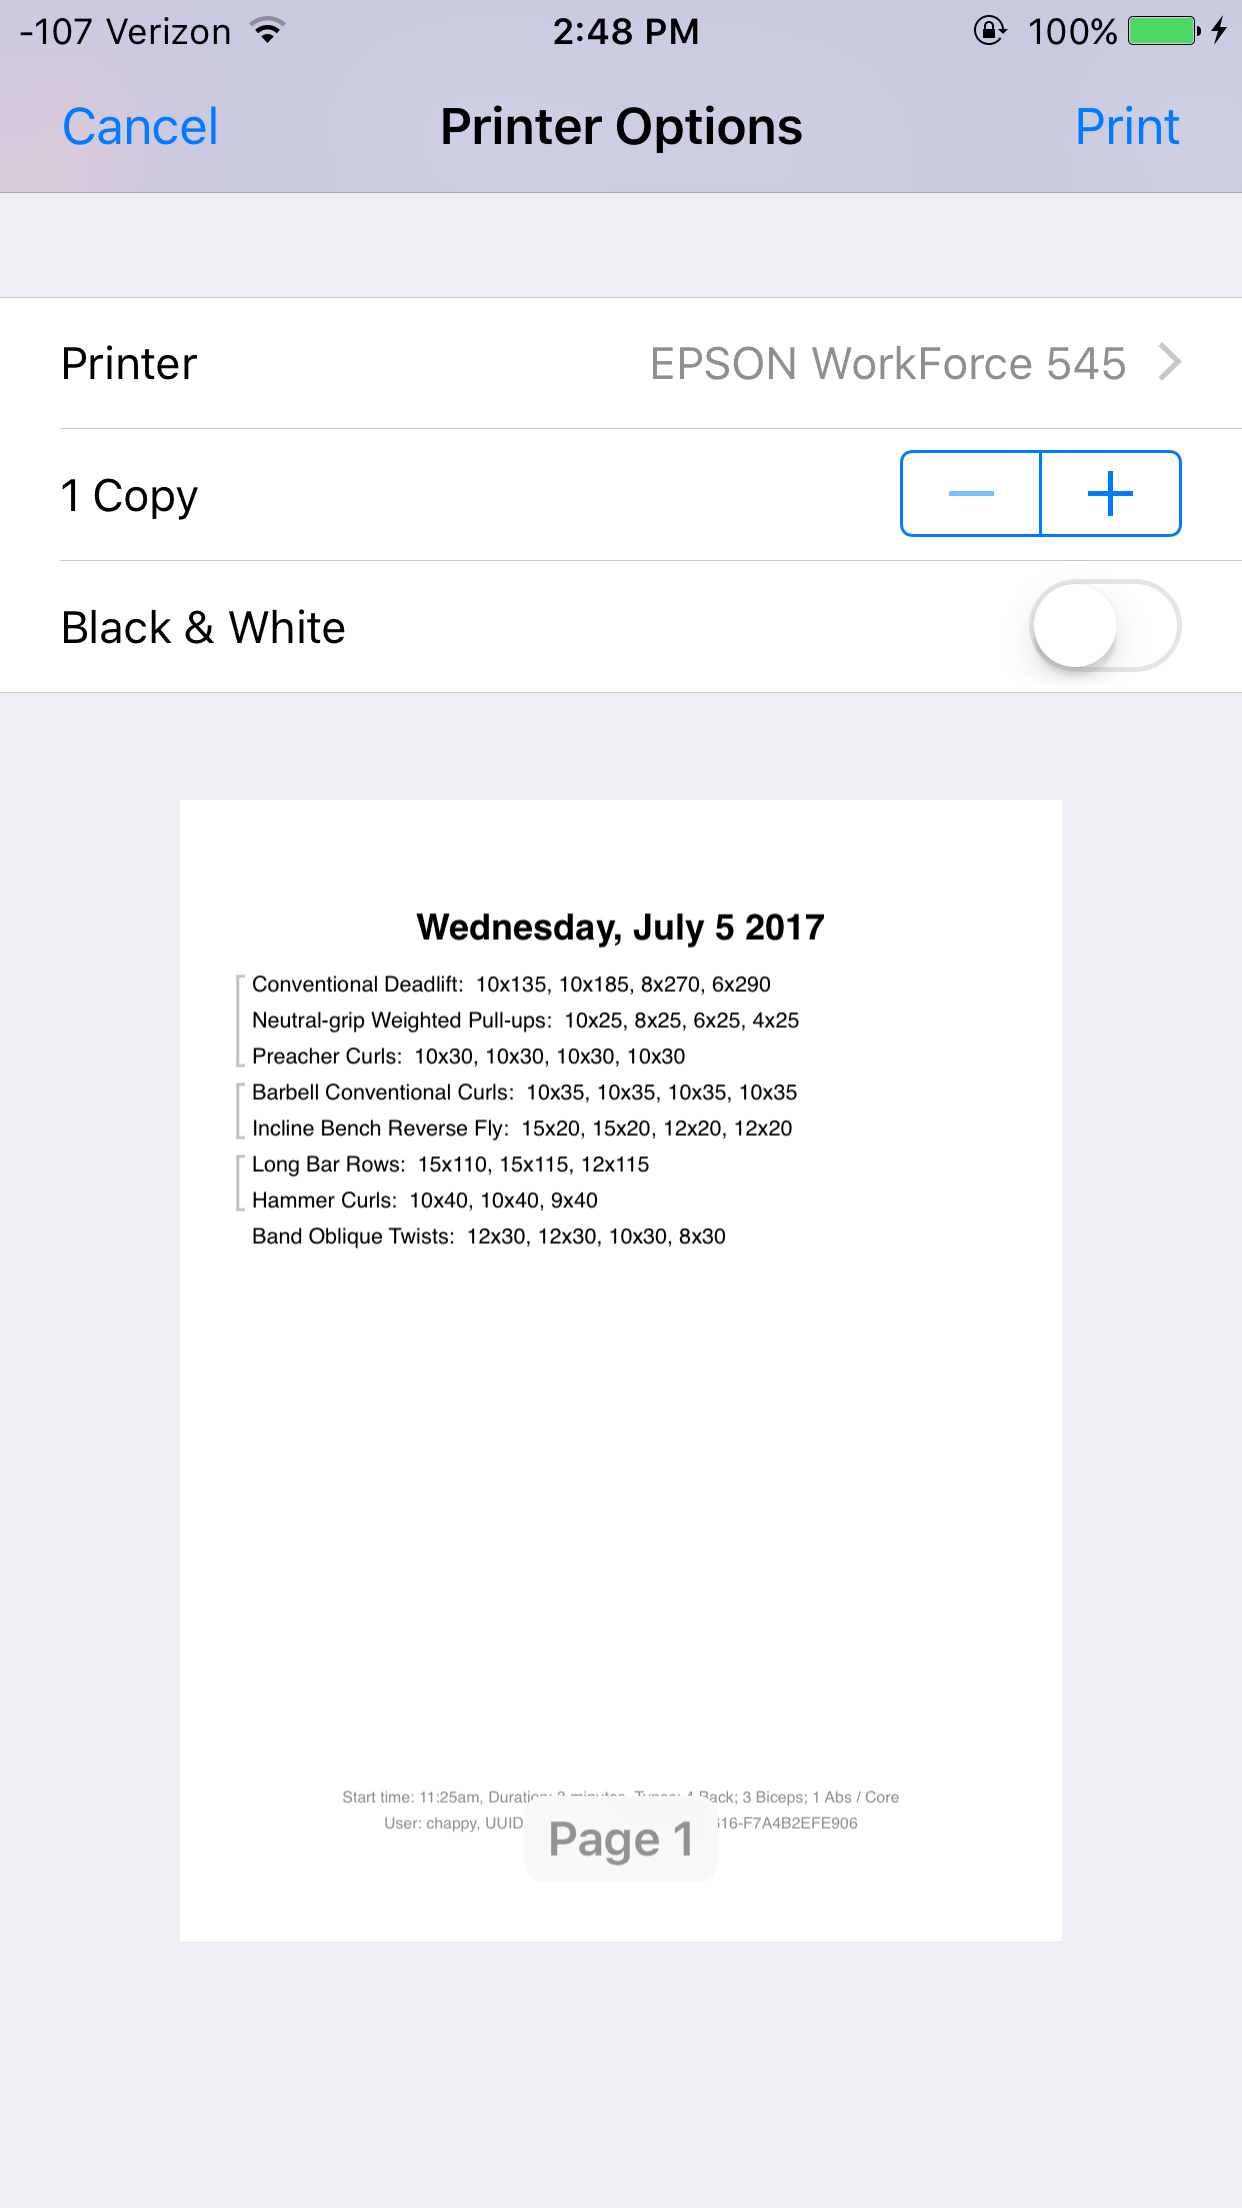
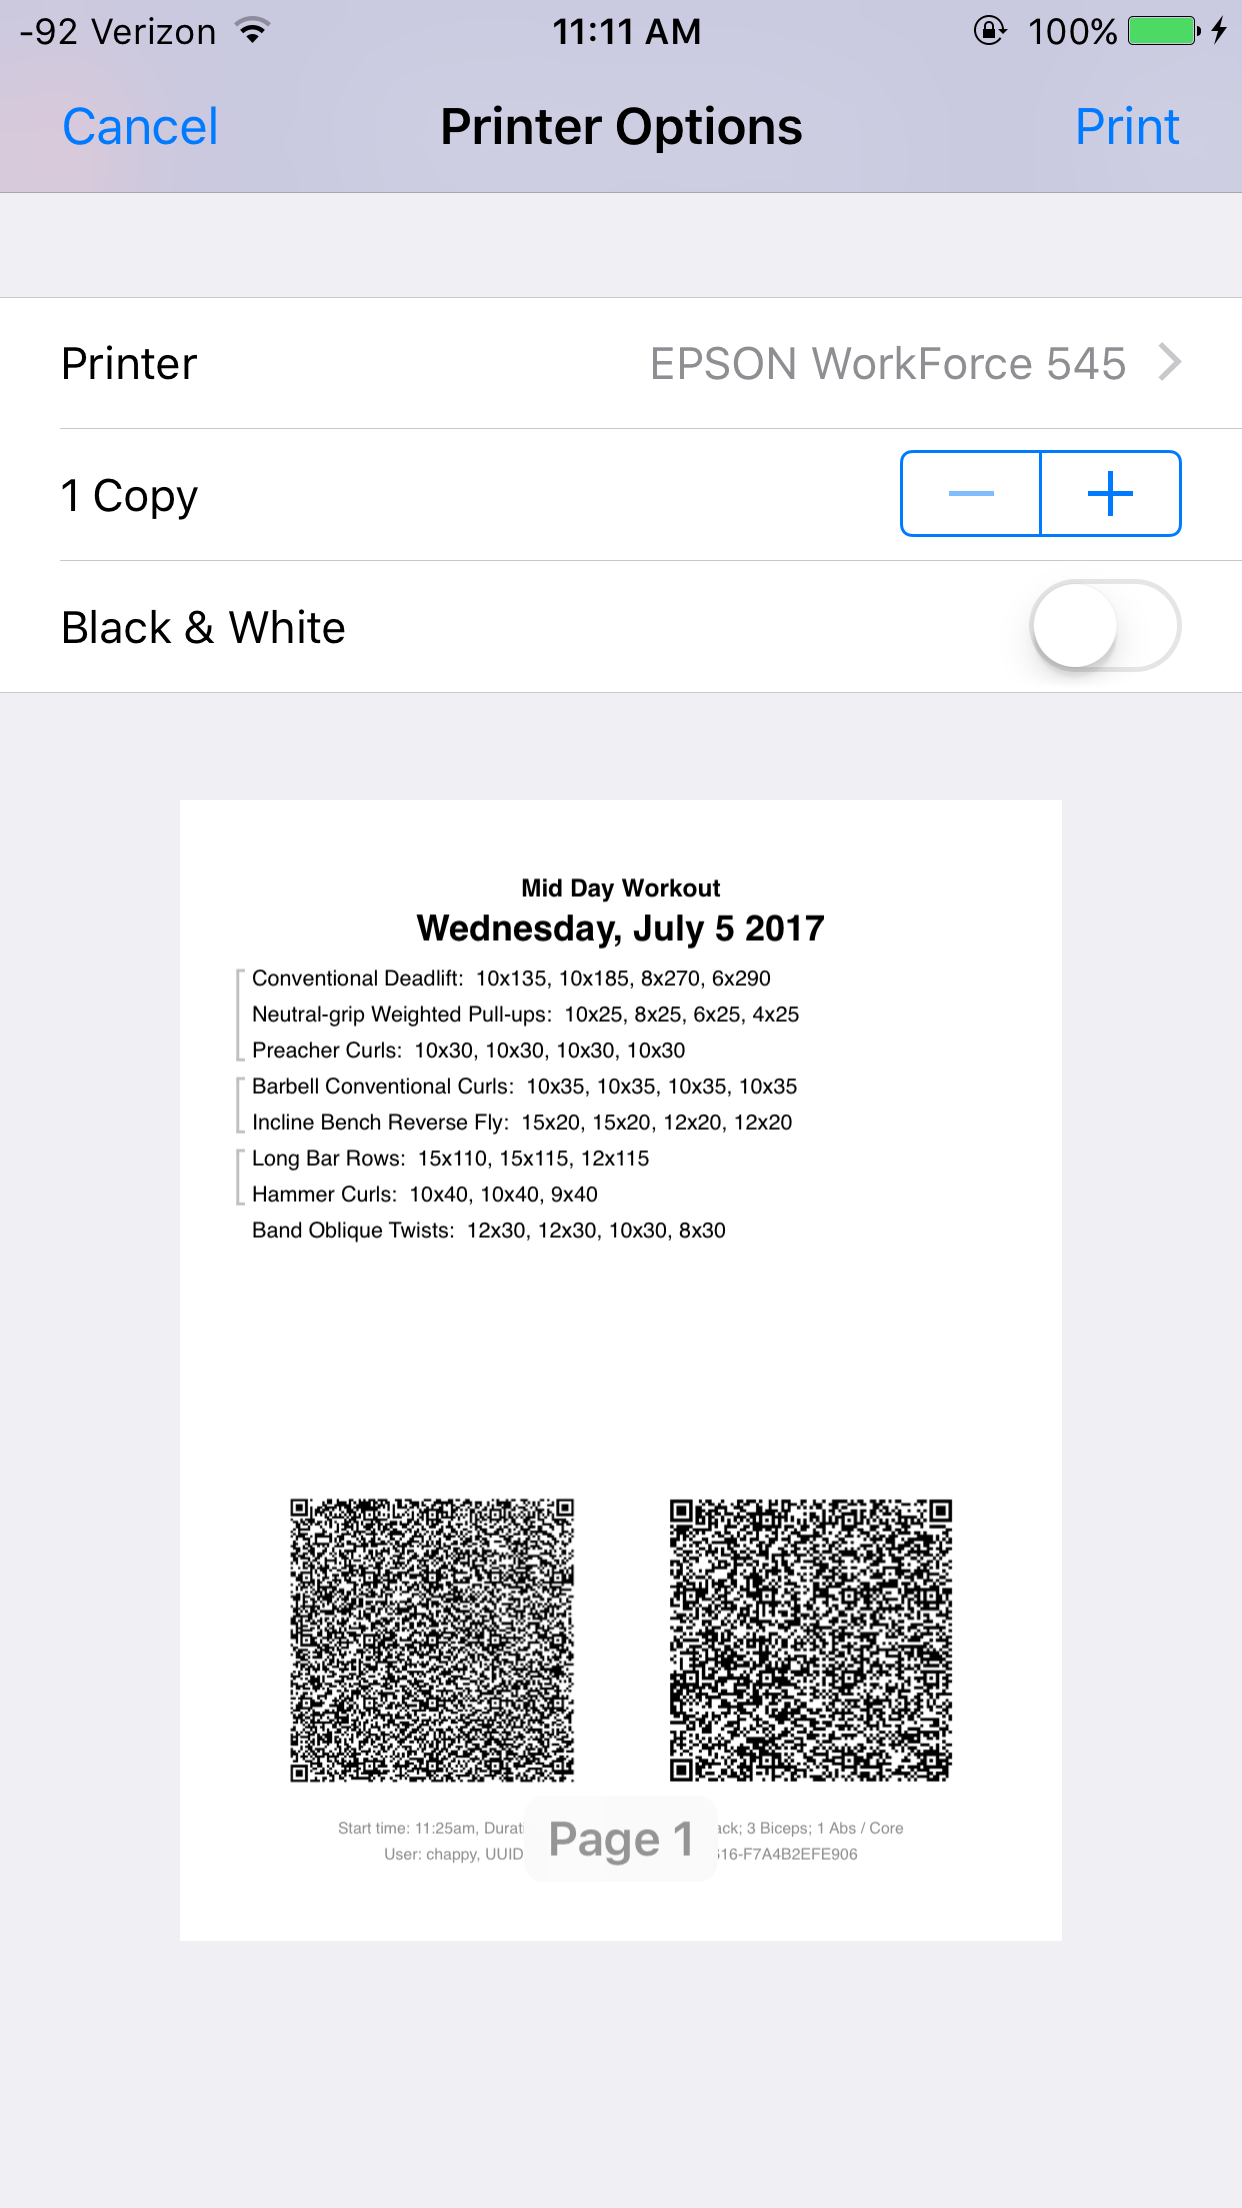
Readme update

diff --git a/README.md b/README.md
@@ -1,6 +1,12 @@
 # BenchTracker_iOS
 ## Intro
-This app uses Core Data to record, analyze, and display a user's workouts through cataloging date, duration, exercises, sets, rep details, and more. In addition, the local Core Data stores are regularly synced with [Amazon Web Services](https://aws.amazon.com) servers so they can be synced across devices and eventually cross-platform. By using a simple username system, a user can easily log into their account on any iOS device ad keep track of their workout. Additionaly, users can export their workouts to PDF form and print them so they can be saved phyically in addition to electronically.
+This app uses Core Data to record, analyze, and display a user's workouts through cataloging date, duration, exercises, sets, rep details, and more. In addition, the local Core Data stores are regularly synced with [Amazon Web Services](https://aws.amazon.com) servers so they can be synced across devices and eventually cross-platform. By using a simple username system, a user can easily log into their account on any iOS device ad keep track of their workout. Additionaly, users can export their workouts to PDF form and print them so they can be saved phyically in addition to electronically. QR codes included on the pdf can be used to re-digitize the workout at any time or create an empty replica.
+
+#### Backend Syncing
+Whenever a user opens up their app, the user with the matching ```username``` is pulled from DynamoDB. Both user's recent edits are then compared and the appropriate workouts are downloaded and deleted. The local and server exercise type list versions are then compared to determine whether or not an updated version must be downloaded. Whenever either of these updates are made, the fetched AWS object must be translated into its Core Data counterpart and vice versa when uploading. To save space and speed up server calls, certain data such as exercises are strategically converted to json format. Translating back and forth provides the advantage of speed and accessibility client-side and effieiency server-side.
+
+#### QR code generation and scanning
+To make sharing workouts between users more efficient, a system of QR code generation has been implimented to make downloading external workouts seamless. Furthermore, this implimentation can be used offline as it is not server-dependent. With the help of the MJExtension library, special techniques are used to dramatically downsize workouts to a more managable size (for example: one workout was shortened from 2600 characters to 550 without any data loss). These raw JSON strings are then translated in QR codes and can be either displayed on the device itself or printed out. Any user is then welcome to scan the code and instantly either load the same workout with dates, durations, sets and more preserved or use it as a template for their own workout (no sets etc.).
 
 ## Installation
 #### AWS Servers
@@ -32,12 +38,13 @@ In order to get the app to fully function correctly, the file 'BenchTrackerKeys.
 #### Cocoapods
 [Cocoapods](https://cocoapods.org) is a dependency manager for Swift and ObjC projects. This app does not require additional setup to enable the pods to be used. This app uses the following pods and frameowrks:
 * [AWS iOS SDK](https://github.com/aws/aws-sdk-ios) - database solution
-* [JSONModel](https://github.com/jsonmodel/jsonmodel) - data translation for server
+* [JSONModel](https://github.com/jsonmodel/jsonmodel) - JSON serialization for server
 * [ZFDragableModalTransition](https://github.com/zoonooz/ZFDragableModalTransition) - popup views
 * [HMSegmentedControl](https://github.com/HeshamMegid/HMSegmentedControl) - custom segmented control
 * [FSCalendar](https://github.com/WenchaoD/FSCalendar) - calendar view
 * [SWTableViewCell](https://github.com/CEWendel/SWTableViewCell) - swipe-to-delete workout cells
-* [MJExtension](https://github.com/CoderMJLee/MJExtension) - QR code data serialization
+* [MJExtension](https://github.com/CoderMJLee/MJExtension) - workout JSON serialization for QR codes
+* [MMQRCodeScanner](https://github.com/dexianyinjiu/MMQRCodeScanner) - QR code generation and scanning
 * [Core Data](https://developer.apple.com/library/content/documentation/Cocoa/Conceptual/CoreData/index.html) - on-device data storage
 * [Core Graphics / Text](https://developer.apple.com/library/content/documentation/StringsTextFonts/Conceptual/CoreText_Programming/Overview/Overview.html) - workout PDF generation
 
@@ -62,5 +69,9 @@ In order to get the app to fully function correctly, the file 'BenchTrackerKeys.
 <img src="./Screenshots/image9.png" alt="Drawing" width="300 px"/>
 <img src="./Screenshots/image10.png" alt="Drawing" width="300 px"/>
 
-#### Export Workout to PDF
+#### Export workout to PDF
 <img src="./Screenshots/image11.png" alt="Drawing" width="300 px"/>
+
+#### QR code generation and scanning
+<img src="./Screenshots/image12.png" alt="Drawing" width="300 px"/>
+<img src="./Screenshots/image13.png" alt="Drawing" width="300 px"/>
